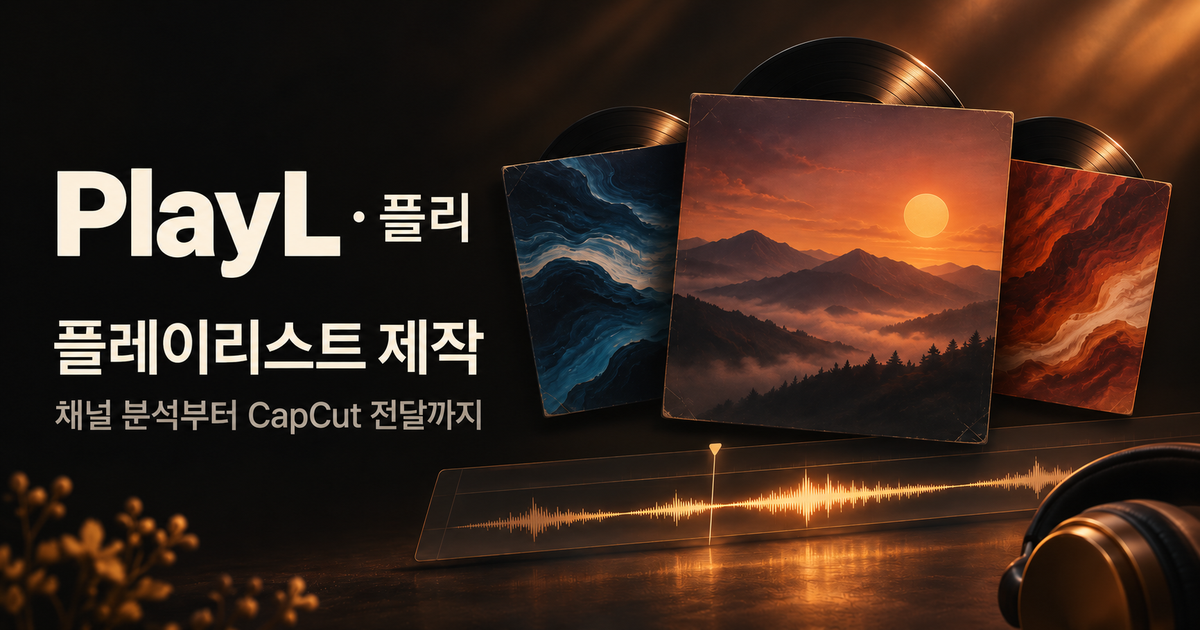
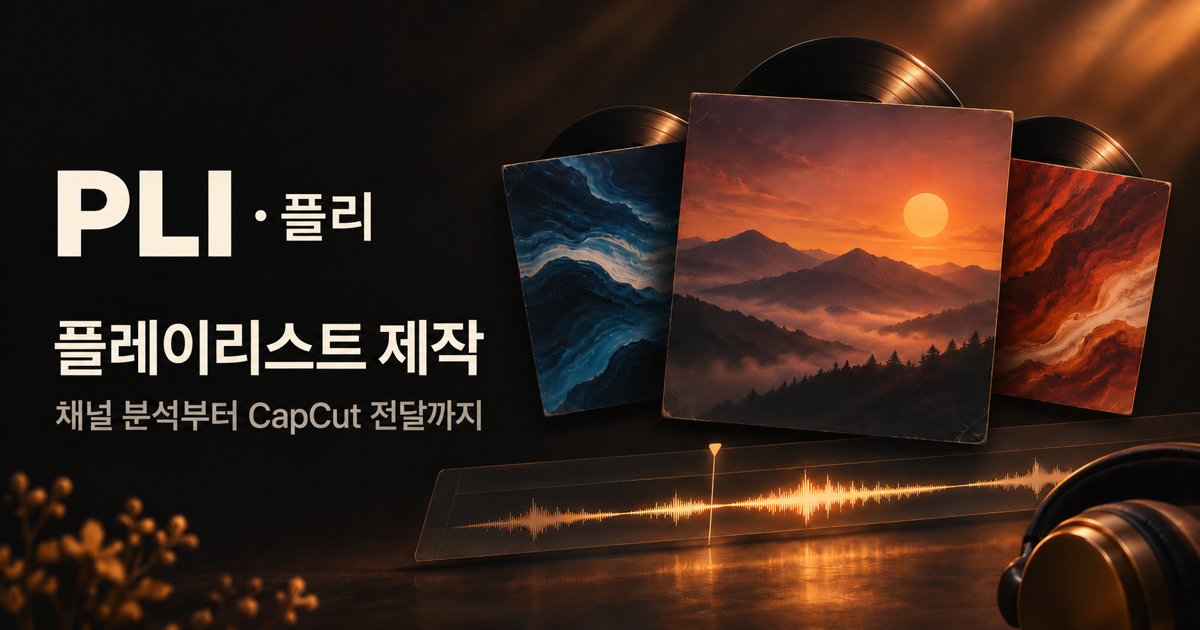
Add files via upload

diff --git a/public/2026-11-05-guide.html b/public/2026-11-05-guide.html
@@ -1,11 +1,11 @@
 <!doctype html>
-<html lang="ko"><head><meta charset="utf-8"><meta name="viewport" content="width=device-width,initial-scale=1"><meta name="theme-color" content="#000000"><title>PlayL · 플리 사용방법</title><link rel="stylesheet" href="2026-11-04-tokens.css"><link rel="stylesheet" href="2026-11-04-style.css"><link rel="stylesheet" href="2026-11-05-guide.css"><script defer src="/2026-11-05-web-analytics.js"></script></head><body class="guide-page">
+<html lang="ko"><head><meta charset="utf-8"><meta name="viewport" content="width=device-width,initial-scale=1"><meta name="theme-color" content="#000000"><title>PLI · 플리 사용방법</title><link rel="stylesheet" href="2026-11-04-tokens.css"><link rel="stylesheet" href="2026-11-04-style.css"><link rel="stylesheet" href="2026-11-05-guide.css"><script defer src="/2026-11-05-web-analytics.js"></script></head><body class="guide-page">
 <a class="skip" href="#guide-main">본문으로 이동</a>
-<header class="guide-header"><a class="brand" href="/">▶ PlayL · 플리</a><span class="muted">사용방법 · v0.6.1</span><a class="secondary" href="/">작업 화면 열기</a></header>
+<header class="guide-header"><a class="brand" href="/">▶ PLI · 플리</a><span class="muted">사용방법 · v0.8.2</span><a class="secondary" href="/">작업 화면 열기</a></header>
 <div class="guide-layout"><nav class="guide-toc" aria-label="사용방법 목차"><strong>목차</strong><a href="#start">처음 시작하기</a><a href="#youtube">YouTube API 키 설정</a><a href="#analysis">01 참고 채널 분석</a><a href="#plan">02 곡 기획·가사</a><a href="#music">03 음악 생성·선택</a><a href="#audio">04 무음·음량 조정</a><a href="#images">05 이미지 준비</a><a href="#capcut">06 CapCut 전달</a><a href="#save">저장·불러오기</a><a href="#status">현재 지원 범위</a><a href="#troubleshooting">문제 해결</a></nav>
-<main id="guide-main" tabindex="-1"><div class="guide-title"><p class="muted">작업 옆에 두고 따라 하는 안내</p><h1>PlayL · 플리 사용방법</h1><p>참고 채널에서 제작 방향을 찾고, 원곡과 이미지를 준비해 CapCut에서 편집합니다.</p><p class="muted">이 안내는 별도 탭에서 열립니다. 원래 작업 탭으로 돌아가 계속 진행하세요.</p></div>
-<section id="start" class="panel"><h2>처음 시작하기 · 사이트에서 준비</h2><ol><li>작업 화면 왼쪽 <strong>시작·설치 확인</strong>을 엽니다.</li><li>로컬 브릿지가 없으면 화면의 <strong>PlayL · 플리 브릿지 다운로드</strong>를 누릅니다. Node.js가 없으면 공식 다운로드로 설치합니다.</li><li>ZIP 전체를 풀고 포함된 <strong>2026-11-05-PlayL-start-v0.6.1.cmd</strong>를 실행합니다. 현재는 사이트에서 설치를 안내하는 실행 묶음이며 별도 자동 설치 마법사는 아닙니다.</li><li>사이트에서 브릿지 연결을 다시 확인합니다. 배포 사이트를 쓸 때는 로컬 연결과 설정에서 해당 HTTPS origin을 등록하고 연결 코드를 입력합니다.</li><li>확인된 설치 상태에서 없는 도구만 공식 다운로드 안내로 준비하고 <strong>설치 상태 다시 확인</strong>을 누릅니다. 설치 확인과 실행·로그인·모델 준비 완료는 별개입니다.</li></ol><p>로컬 브릿지가 GPU·VRAM·RAM과 알려진 설치 위치/PATH를 확인합니다. 임의 위치의 설치는 찾지 못할 수 있습니다. YuE2는 앱 버전과 모델 구성(BF16/Q8 등)을 구분해 PC 사양에 맞는 후보를 안내하며, Studio에서 모델·드라이버 준비 상태를 최종 확인합니다.</p><p class="muted"><a href="https://github.com/timoncool/YuE2-Studio" target="_blank" rel="noopener noreferrer">YuE2 개발자 요구 사양·모델 안내 ↗</a>를 참고한 후보 안내이며 실행 보증은 아닙니다. 사양 확인을 못 하면 추천을 보류합니다.</p><div class="inline-note">이미지 AI 생성과 새 CapCut 초안의 자동 등록은 아직 제공하지 않습니다. 현재 지원 범위를 확인하세요.</div></section>
-<section id="youtube" class="panel"><h2>YouTube API 키 준비·저장</h2><h3>1. Google Cloud에서 준비</h3><ol><li><a href="https://console.cloud.google.com/" target="_blank" rel="noopener noreferrer">Google Cloud Console ↗</a>에서 프로젝트를 만들거나 선택합니다. 이 프로젝트는 Google API 관리용이며 PlayL 작업과는 별개입니다.</li><li>‘API 및 서비스 → 라이브러리’에서 <strong>YouTube Data API v3</strong>를 찾아 사용 설정합니다.</li><li>‘API 및 서비스 → 사용자 인증 정보’에서 <strong>사용자 인증 정보 만들기 → API 키</strong>로 일반 API 키를 만듭니다. 공개 채널 수집에는 서비스 계정 JSON이나 OAuth 클라이언트 파일을 넣지 않습니다.</li><li>키의 API 제한 대상을 <strong>YouTube Data API v3</strong>로 지정합니다. API를 활성화한 프로젝트와 키를 만든 프로젝트가 같은지 확인하세요.</li></ol><h3>2. PlayL에서 저장</h3><ol><li>작업 화면 왼쪽의 <strong>연결과 설정</strong>을 엽니다.</li><li>‘YouTube 데이터 연결 → YouTube API 키’에 키 문자열을 붙여 넣고 <strong>키 저장</strong>을 누릅니다.</li><li>저장 후 입력창이 접히고 <strong>키 등록됨 · 연결 확인 전</strong>으로 바뀝니다. <strong>실제 연결 확인</strong>을 누르거나 채널 수집에 성공하면 <strong>연결 확인됨</strong>이 표시됩니다. 키를 바꿀 때만 ‘키 변경’을 사용합니다.</li></ol><p class="inline-note">API 키는 채팅·공유 화면·GitHub에 올리지 말고 앱의 키 입력란에 직접 저장하세요. PC의 비공개 연결 설정에 저장되며 저장 후 화면에 키를 다시 표시하지 않습니다.</p><details><summary>키에 웹사이트/IP 제한을 설정할 때</summary><p>현재 YouTube 요청은 PC의 로컬 브릿지가 Google로 보냅니다. 브라우저용 HTTP 리퍼러 제한은 이 방식과 맞지 않아 요청이 거절될 수 있습니다. IP 제한은 Google로 요청하는 PC의 공인 출구 IP에 맞춰야 하며, 인터넷 환경이 바뀌면 다시 확인해야 합니다. <code>127.0.0.1</code>은 Google에서 보는 공인 IP가 아닙니다.</p><p><a href="https://docs.cloud.google.com/api-keys/docs/add-restrictions-api-keys" target="_blank" rel="noopener noreferrer">Google 공식 키 제한 안내 ↗</a></p></details><p class="muted">Google 콘솔의 메뉴 이름은 언어·화면 개편에 따라 달라질 수 있습니다. <a href="https://developers.google.com/youtube/v3/getting-started" target="_blank" rel="noopener noreferrer">YouTube 시작 안내 ↗</a> · <a href="https://docs.cloud.google.com/docs/authentication/api-keys" target="_blank" rel="noopener noreferrer">API 키 만들기 안내 ↗</a></p></section>
+<main id="guide-main" tabindex="-1"><div class="guide-title"><p class="muted">작업 옆에 두고 따라 하는 안내</p><h1>PLI · 플리 사용방법</h1><p>참고 채널에서 제작 방향을 찾고, 원곡과 이미지를 준비해 CapCut에서 편집합니다.</p><p class="muted">이 안내는 별도 탭에서 열립니다. 원래 작업 탭으로 돌아가 계속 진행하세요.</p></div>
+<section id="start" class="panel"><h2>처음 시작하기 · 사이트에서 준비</h2><ol><li>작업 화면 왼쪽 <strong>시작·설치 확인</strong>을 엽니다.</li><li>로컬 브릿지가 없으면 화면의 <strong>PLI · 플리 브릿지 다운로드</strong>를 누릅니다. Node.js가 없으면 공식 다운로드로 설치합니다.</li><li>ZIP 전체를 풀고 포함된 <strong>2026-11-05-PlayL-start-v0.8.2.cmd</strong>를 실행합니다. 현재는 사이트에서 설치를 안내하는 실행 묶음이며 별도 자동 설치 마법사는 아닙니다.</li><li>사이트에서 브릿지 연결을 다시 확인합니다. 배포 사이트를 쓸 때는 로컬 연결과 설정에서 해당 HTTPS origin을 등록하고 연결 코드를 입력합니다.</li><li>확인된 설치 상태에서 없는 도구만 공식 다운로드 안내로 준비하고 <strong>설치 상태 다시 확인</strong>을 누릅니다. 설치 확인과 실행·로그인·모델 준비 완료는 별개입니다.</li></ol><p>로컬 브릿지가 GPU·VRAM·RAM과 알려진 설치 위치/PATH를 확인합니다. 임의 위치의 설치는 찾지 못할 수 있습니다. YuE2는 앱 버전과 모델 구성(BF16/Q8 등)을 구분해 PC 사양에 맞는 후보를 안내하며, Studio에서 모델·드라이버 준비 상태를 최종 확인합니다.</p><p class="muted"><a href="https://github.com/timoncool/YuE2-Studio" target="_blank" rel="noopener noreferrer">YuE2 개발자 요구 사양·모델 안내 ↗</a>를 참고한 후보 안내이며 실행 보증은 아닙니다. 사양 확인을 못 하면 추천을 보류합니다.</p><div class="inline-note">이미지 AI 생성과 새 CapCut 초안의 자동 등록은 아직 제공하지 않습니다. 현재 지원 범위를 확인하세요.</div></section>
+<section id="youtube" class="panel"><h2>YouTube API 키 준비·저장</h2><h3>1. Google Cloud에서 준비</h3><ol><li><a href="https://console.cloud.google.com/" target="_blank" rel="noopener noreferrer">Google Cloud Console ↗</a>에서 프로젝트를 만들거나 선택합니다. 이 프로젝트는 Google API 관리용이며 PLI 작업과는 별개입니다.</li><li>‘API 및 서비스 → 라이브러리’에서 <strong>YouTube Data API v3</strong>를 찾아 사용 설정합니다.</li><li>‘API 및 서비스 → 사용자 인증 정보’에서 <strong>사용자 인증 정보 만들기 → API 키</strong>로 일반 API 키를 만듭니다. 공개 채널 수집에는 서비스 계정 JSON이나 OAuth 클라이언트 파일을 넣지 않습니다.</li><li>키의 API 제한 대상을 <strong>YouTube Data API v3</strong>로 지정합니다. API를 활성화한 프로젝트와 키를 만든 프로젝트가 같은지 확인하세요.</li></ol><h3>2. PLI에서 저장</h3><ol><li>작업 화면 왼쪽의 <strong>연결과 설정</strong>을 엽니다.</li><li>‘YouTube 데이터 연결 → YouTube API 키’에 키 문자열을 붙여 넣고 <strong>키 저장</strong>을 누릅니다.</li><li>저장 후 입력창이 접히고 <strong>키 등록됨 · 연결 확인 전</strong>으로 바뀝니다. <strong>실제 연결 확인</strong>을 누르거나 채널 수집에 성공하면 <strong>연결 확인됨</strong>이 표시됩니다. 키를 바꿀 때만 ‘키 변경’을 사용합니다.</li></ol><p class="inline-note">API 키는 채팅·공유 화면·GitHub에 올리지 말고 앱의 키 입력란에 직접 저장하세요. PC의 비공개 연결 설정에 저장되며 저장 후 화면에 키를 다시 표시하지 않습니다.</p><details><summary>키에 웹사이트/IP 제한을 설정할 때</summary><p>현재 YouTube 요청은 PC의 로컬 브릿지가 Google로 보냅니다. 브라우저용 HTTP 리퍼러 제한은 이 방식과 맞지 않아 요청이 거절될 수 있습니다. IP 제한은 Google로 요청하는 PC의 공인 출구 IP에 맞춰야 하며, 인터넷 환경이 바뀌면 다시 확인해야 합니다. <code>127.0.0.1</code>은 Google에서 보는 공인 IP가 아닙니다.</p><p><a href="https://docs.cloud.google.com/api-keys/docs/add-restrictions-api-keys" target="_blank" rel="noopener noreferrer">Google 공식 키 제한 안내 ↗</a></p></details><p class="muted">Google 콘솔의 메뉴 이름은 언어·화면 개편에 따라 달라질 수 있습니다. <a href="https://developers.google.com/youtube/v3/getting-started" target="_blank" rel="noopener noreferrer">YouTube 시작 안내 ↗</a> · <a href="https://docs.cloud.google.com/docs/authentication/api-keys" target="_blank" rel="noopener noreferrer">API 키 만들기 안내 ↗</a></p></section>
 <section id="analysis" class="panel"><h2>01 참고 채널 분석</h2><ol><li>채널 URL 또는 <code>@핸들</code>을 입력합니다. 예: <code>https://www.youtube.com/@채널핸들</code>. 개별 영상·플레이리스트 주소 대신 채널 주소를 사용하세요.</li><li>최근 10·20·50개 중 수집 범위를 선택하고 입력란 옆 <strong>데이터 수집</strong>을 누릅니다. 채널을 모르면 키워드 검색 후 ‘이 채널 수집’을 선택합니다.</li><li>표본 수·게시 기간·길이별 비교·긴 영상 조회수 상위·제목 키워드를 확인합니다. 조회수 상위는 최근 수집 표본 안의 순위입니다.</li><li><strong>AI로 제작 방향 분석</strong>을 실행합니다. 로그인된 GPT/Codex 또는 Claude CLI가 필요합니다. 같은 채널 화면에서 진행 상태·오류·분석 결과를 확인합니다. 작업 기록으로 자동 이동하지 않습니다.</li><li>근거 영상과 제작 방향을 검토한 뒤 <strong>이 분석을 곡 기획에 반영</strong>을 눌러 다음 단계로 연결합니다.</li></ol><p class="inline-note">AI 해석은 제목·설명 등 메타데이터 기반 추정입니다. 실제 음악을 듣거나 썸네일 픽셀을 분석한 결과가 아닙니다. BPM·최적 업로드 시간·시청 지속률·수익을 확인했다고 해석하지 마세요. 길이 3분 이하가 곧 Shorts라는 뜻도 아닙니다.</p><p class="muted">참고 채널 없이 직접 기획할 수도 있습니다. 실제 채널 재수집·Codex 해석을 확인했습니다. 예전 자료는 다시 분석할 때 설명과 트랙 목록을 갱신합니다. 제작 제안의 곡 수·길이·반복·총길이는 계산 검사하며, 반복은 설명의 단서와 실제 오디오 확인을 구분합니다. 모순된 이전 제안은 재분석 전 반영할 수 없습니다.</p></section>
 <section id="plan" class="panel"><h2>02 곡 기획·가사</h2><ol><li><strong>곡 기획 설정</strong>을 펼쳐 이름·장르·분위기·가사 언어·곡 수·직접 제작 방향을 입력합니다.</li><li>GPT/Codex와 Claude의 사용 순서를 정합니다. ‘순서 바꾸기’로 변경할 수 있습니다. 연결과 설정에서 모델명을 지정하며, 비우면 CLI 기본값을 사용합니다.</li><li><strong>기획·가사 생성</strong>을 누르고 같은 화면에서 생성된 초안의 제목·스타일·가사를 검토해 현재 작업에 추가합니다. 기존 곡은 유지됩니다. 직접 곡 추가로 작성할 수도 있습니다.</li><li>곡별 제목·가사·스타일을 수정합니다. 기존 곡은 자동 교체되지 않으므로 중복 곡이 생기지 않았는지 확인하세요.</li></ol><p class="muted">사용량 한도 오류가 확인될 때만 다음 제공자로 전환합니다. 로그인·네트워크 오류는 한도 소진으로 간주하지 않으며 잔여 크레딧을 추정하지 않습니다.</p></section>
 <section id="music" class="panel"><h2>03 음악 생성·선택</h2><ol><li>곡 기획 설정에서 <strong>YuE2 Studio 또는 Suno</strong>를 선택합니다.</li><li>연결과 설정에서 엔진 연결을 확인합니다. YuE2는 프로젝트용 실행 스크립트 <code>2026-11-04-YuE2-workspace-start-v0.1.0.ps1</code>로 시작하고 프로젝트 내부 저장 경로·모델 준비 상태를 확인합니다.</li><li>곡별 생성 버튼으로 요청하거나, 기존 음원 파일을 가져옵니다. 생성 결과는 작업 기록에서 검토한 뒤 <strong>이 음원 선택</strong>으로 연결합니다.</li><li>후보를 미리 듣고 사용할 음원을 확정합니다. Suno 실제 계정 연결·생성·다운로드는 아직 검증하지 않았습니다.</li></ol><details><summary>YuE2 연결이 끊기거나 생성 추적을 중단했다면</summary><p>‘기존 생성 결과 확인·복구’로 같은 작업 ID를 조회하세요. 새 생성 요청을 다시 보내는 기능이 아닙니다. ‘생성 추적 중단’은 YuE2의 실제 GPU 생성을 취소하지 않으므로 Studio에서 상태를 확인한 뒤 판단하세요.</p></details></section>
@@ -15,4 +15,4 @@
 <section id="save" class="panel"><h2>작업 저장·불러오기</h2><p>상단 <strong>저장</strong>을 눌러 작업을 남깁니다. ‘저장하지 않은 변경 사항’이 표시되면 현재 편집 내용을 다시 저장하세요. 다음에 왼쪽 ‘저장·불러오기’ 목록에서 불러올 수 있습니다.</p><p>‘새 작업’은 새로운 임시 작업을 시작합니다. 저장하지 않은 변경이 있다면 이동 전 확인합니다. 작업 화면 새로고침과 브릿지 종료 전 저장 상태를 확인하세요.</p></section>
 <section id="status" class="panel"><h2>현재 지원 범위</h2><div class="table-wrap"><table><thead><tr><th>기능</th><th>현재 상태</th></tr></thead><tbody><tr><td>채널 수집·AI 해석</td><td>구현됨 · 실제 채널 통합 검증은 API 키 준비 후</td></tr><tr><td>GPT/Codex 기획·가사</td><td>실제 생성 확인</td></tr><tr><td>Claude·실제 한도 전환</td><td>사용자 로그인·실제 실행 검증 필요</td></tr><tr><td>YuE2 음악 생성</td><td>실제 약 30초 생성 확인</td></tr><tr><td>Suno</td><td>실제 인증·생성·다운로드 미검증</td></tr><tr><td>이미지</td><td>파일 첨부·커버 선택 가능 / AI 생성 미구현</td></tr><tr><td>CapCut</td><td>초안 생성 및 9.6에서 30초 샘플 확인 / 자동 등록 미구현</td></tr><tr><td>GitHub·Vercel</td><td>설정 준비 / 실제 게시·배포 미실행</td></tr></tbody></table></div></section>
 <section id="troubleshooting" class="panel"><h2>문제 해결</h2><details><summary>키를 등록했는데 수집에 실패해요</summary><p>키를 만든 Google 프로젝트에서 YouTube Data API v3가 활성화됐는지, API·클라이언트 제한이 맞는지 확인하세요. 저장 성공은 API 호출 성공이 아닙니다. 할당량 오류는 Google 콘솔에서 사용량을 확인하고, 오류 메시지는 키 문자열을 제외해 공유하세요.</p></details><details><summary>로컬 브릿지 연결이 안 돼요</summary><p>PC 실행 스크립트를 켜고 터미널이 열려 있는지 확인하세요. 로컬 주소는 http://127.0.0.1:43119 입니다. 배포된 웹앱과 로컬 브릿지 연결은 아직 실제 배포 환경에서 검증하지 않았습니다.</p></details><details><summary>채널 주소 형식 오류가 나요</summary><p>/@핸들, /channel/채널ID, /user/사용자명 형식을 사용하세요. /c/별칭, 개별 영상, 플레이리스트 URL 대신 실제 채널의 @핸들을 복사하세요.</p></details><details><summary>AI나 음악 생성이 실패했어요</summary><p>작업 기록의 오류와 제공자 로그인·엔진 연결 상태를 확인하세요. 실제 생성 여부가 불명확하면 같은 요청을 즉시 반복하지 말고 기존 작업 ID를 먼저 조회하세요.</p></details><details><summary>CapCut에서 파일을 찾을 수 없다고 해요</summary><p>원래 초안 결과의 Resources 폴더가 남아 있는지 확인하세요. ZIP을 다른 위치에 풀어도 내부의 절대 미디어 경로가 자동으로 바뀌지는 않습니다. 원본 결과 폴더를 보존하고 CapCut의 미디어 재연결을 확인하세요.</p></details></section>
-<footer><span>PlayL · 플리 v0.8.2 · 안내 갱신 2026-11-05</span><a href="#guide-main">맨 위로 ↑</a></footer><section><h2>곡 만들기부터 CapCut까지</h2><ol><li>음악 생성·선택에서 YuE2 Studio를 선택하고 실행 및 연결을 누릅니다.</li><li>곡 카드에서 생성하거나 음원 없는 곡을 일괄 생성합니다. 단일 후보는 원래 곡에 연결됩니다.</li><li>포함할 곡으로 계속을 누른 뒤 무음 분석과 조정을 확인합니다.</li><li>이미지 단계에서 커버를 변경하거나 가사로 새 후보를 만듭니다. 새 이미지는 로그인된 Codex CLI로 생성합니다.</li><li>CapCut 초안이 완료되면 CapCut에서 열기를 누릅니다. 앱의 프로젝트 목록에서 새 초안을 선택합니다.</li></ol></section><section><h2>배포된 웹앱에서 PC 브릿지 연결</h2><p>브릿지 ZIP을 작업 폴더에 풀고 Windows PowerShell 7에서 PlayL 설치 스크립트를 실행합니다. 배포 담당자는 공식 HTTPS 주소를 설치 설정에 지정합니다. 웹앱에서 브릿지 연결을 눌러 Windows의 앱 실행 안내와 PlayL 승인 창을 확인하세요. 음원과 이미지는 브라우저에서 같은 PC의 브릿지로 전달합니다.</p><h3>YuE2 처음 사용하기</h3><p>시작·설치 확인에서 GPU 메모리와 RAM, YuE2 설치 상태를 확인합니다. 이미 설치돼 있으면 프로젝트용 복사본을 준비하고, 설치가 필요하면 공식 다운로드로 이동합니다. 모델이 준비되지 않았다면 Studio 모델 설정에서 권장 구성을 다운로드한 뒤 PlayL에서 다시 연결하세요.</p></section></main></div></body></html>
+<footer><span>PLI · 플리 v0.8.2 · 안내 갱신 2026-11-05</span><a href="#guide-main">맨 위로 ↑</a></footer><section><h2>곡 만들기부터 CapCut까지</h2><ol><li>음악 생성·선택에서 YuE2 Studio를 선택하고 실행 및 연결을 누릅니다.</li><li>곡 카드에서 생성하거나 음원 없는 곡을 일괄 생성합니다. 단일 후보는 원래 곡에 연결됩니다.</li><li>포함할 곡으로 계속을 누른 뒤 무음 분석과 조정을 확인합니다.</li><li>이미지 단계에서 커버를 변경하거나 가사로 새 후보를 만듭니다. 새 이미지는 로그인된 Codex CLI로 생성합니다.</li><li>CapCut 초안이 완료되면 CapCut에서 열기를 누릅니다. 앱의 프로젝트 목록에서 새 초안을 선택합니다.</li></ol></section><section><h2>배포된 웹앱에서 PC 브릿지 연결</h2><p>브릿지 ZIP을 작업 폴더에 풀고 Windows PowerShell 7에서 PLI 설치 스크립트를 실행합니다. 배포 담당자는 공식 HTTPS 주소를 설치 설정에 지정합니다. 웹앱에서 브릿지 연결을 눌러 Windows의 앱 실행 안내와 PLI 승인 창을 확인하세요. 음원과 이미지는 브라우저에서 같은 PC의 브릿지로 전달합니다.</p><h3>YuE2 처음 사용하기</h3><p>시작·설치 확인에서 GPU 메모리와 RAM, YuE2 설치 상태를 확인합니다. 이미 설치돼 있으면 프로젝트용 복사본을 준비하고, 설치가 필요하면 공식 다운로드로 이동합니다. 모델이 준비되지 않았다면 Studio 모델 설정에서 권장 구성을 다운로드한 뒤 PLI에서 다시 연결하세요.</p></section></main></div></body></html>

diff --git a/public/index.html b/public/index.html
@@ -1,23 +1,23 @@
 <!doctype html>
-<html lang="ko"><head><meta charset="utf-8"><meta name="viewport" content="width=device-width,initial-scale=1"><meta name="theme-color" content="#000000"><title>PlayL · 플리 — 플레이리스트 제작</title>
+<html lang="ko"><head><meta charset="utf-8"><meta name="viewport" content="width=device-width,initial-scale=1"><meta name="theme-color" content="#000000"><title>PLI · 플리 — 플레이리스트 제작</title>
 <meta name="description" content="참고 채널 분석부터 곡 기획, 음악·이미지 생성과 CapCut 전달까지.">
 <meta property="og:type" content="website">
 <meta property="og:locale" content="ko_KR">
-<meta property="og:site_name" content="PlayL · 플리">
-<meta property="og:title" content="PlayL · 플리 — 플레이리스트 제작">
+<meta property="og:site_name" content="PLI · 플리">
+<meta property="og:title" content="PLI · 플리 — 플레이리스트 제작">
 <meta property="og:description" content="참고 채널 분석부터 곡 기획, 음악·이미지 생성과 CapCut 전달까지.">
 <meta property="og:url" content="https://pli-teal.vercel.app/">
 <meta property="og:image" content="https://pli-teal.vercel.app/og-image.png">
 <meta property="og:image:type" content="image/png">
 <meta property="og:image:width" content="1200">
 <meta property="og:image:height" content="630">
-<meta property="og:image:alt" content="PlayL · 플리와 앨범 커버, 음악 파형">
+<meta property="og:image:alt" content="PLI · 플리와 앨범 커버, 음악 파형">
 <meta name="twitter:card" content="summary_large_image">
 <meta name="twitter:image" content="https://pli-teal.vercel.app/og-image.png">
 <script defer src="/2026-11-05-web-analytics.js"></script>
 <link rel="stylesheet" href="2026-11-04-tokens.css"><link rel="stylesheet" href="2026-11-04-style.css"><link rel="stylesheet" href="2026-11-05-guide.css"><link rel="stylesheet" href="2026-11-05-experience.css"><script type="module" src="2026-11-04-app.js"></script></head><body>
 <a class="skip" href="#main">본문으로 이동</a><div class="shell">
-<aside class="sidebar"><a class="brand" href="#"><span class="brand-mark">▶</span>PlayL · 플리</a><div class="side-caption">플레이리스트 제작</div><button id="new-project" class="new-project">＋ 새 작업</button><label for="project-select" class="side-label">저장·불러오기</label><select id="project-select"><option value="">저장한 작업 불러오기</option></select>
+<aside class="sidebar"><a class="brand" href="#"><span class="brand-mark">▶</span>PLI · 플리</a><div class="side-caption">플레이리스트 제작</div><button id="new-project" class="new-project">＋ 새 작업</button><label for="project-select" class="side-label">저장·불러오기</label><select id="project-select"><option value="">저장한 작업 불러오기</option></select>
 <nav aria-label="제작 단계">
 <button data-tab="analysis" class="nav active"><span>01</span>참고 채널 분석<small data-step-state="analysis">대기</small></button>
 <button data-tab="plan" class="nav"><span>02</span>곡 기획·가사<small data-step-state="plan">대기</small></button>
@@ -25,7 +25,7 @@
 <button data-tab="audio" class="nav"><span>04</span>무음·음량 조정<small data-step-state="audio">대기</small></button>
 <button data-tab="images" class="nav"><span>05</span>이미지<small data-step-state="images">대기</small></button>
 <button data-tab="export" class="nav"><span>06</span>CapCut 전달<small data-step-state="export">대기</small></button>
-</nav><div class="side-bottom"><button data-tab="setup" class="nav">시작·설치 확인</button><button data-tab="jobs" class="nav">작업 기록 <i id="job-count">0</i></button><button data-tab="connections" class="nav">연결과 설정</button><a class="nav" href="2026-11-05-guide.html" target="_blank" rel="noopener noreferrer">사용방법 ↗</a><div class="side-status"><span class="dot" id="bridge-dot"></span><span id="bridge-label">브릿지 확인 중</span></div><small>PlayL · 플리 v0.8.2</small></div></aside>
+</nav><div class="side-bottom"><button data-tab="setup" class="nav">시작·설치 확인</button><button data-tab="jobs" class="nav">작업 기록 <i id="job-count">0</i></button><button data-tab="connections" class="nav">연결과 설정</button><a class="nav" href="2026-11-05-guide.html" target="_blank" rel="noopener noreferrer">사용방법 ↗</a><div class="side-status"><span class="dot" id="bridge-dot"></span><span id="bridge-label">브릿지 확인 중</span></div><small>PLI · 플리 v0.8.2</small></div></aside>
 <main id="main" tabindex="-1"><header class="topbar"><div class="header-titles"><p id="top-title">프로젝트를 선택하세요</p><h1 id="step-title">참고 채널 분석</h1></div><div class="top-actions"><span id="save-state" role="status">저장할 프로젝트 없음</span><button id="save-project" class="secondary" disabled>저장</button></div></header>
 <div id="notice" role="status" aria-live="polite" hidden></div><div id="workspace-summary" class="workspace-summary" aria-label="제작 준비 현황"></div>
 
@@ -38,7 +38,7 @@
 <section id="view-audio" class="view" hidden><div class="section-head"><div><h2>무음 경계와 음량</h2><p class="muted">전주와 잔향을 확인하고 곡 사이의 음량을 맞춥니다.</p></div></div><div class="panel"><label class="check"><input id="normalize" type="checkbox" checked>출력 시 음량 통일과 시작·끝 페이드 적용</label><p class="muted">무음 분석은 추천 구간을 계산합니다. 적용 후 실제 소리를 확인하세요. 음량 통일은 전문 마스터링을 대신하지 않습니다.</p></div><div id="audio-tracks" class="stack"></div><div class="step-navigation"><button class="primary" id="audio-next">조정 완료 · 다음: 이미지 →</button></div></section>
 <section id="view-images" class="view" hidden><div class="section-head"><div><h2>곡별 배경 이미지</h2><p class="muted">확정한 곡에 사용할 이미지를 준비하세요.</p></div></div><div class="inline-note" id="image-provider-note">YuE2 커버와 Codex CLI 이미지 생성을 지원합니다.</div><div class="button-row"><button class="secondary" id="check-image-cli">Codex CLI 연결 확인</button></div><div id="image-tracks" class="stack"></div><div class="step-navigation"><button class="primary" id="images-next" data-tab="export">다음: CapCut 전달 →</button></div></section>
 <section id="view-export" class="view" hidden><div class="panel"><div class="section-head"><h2>CapCut으로 전달할 순서</h2><span class="badge">이미지·음악 분리 타임라인</span></div><div id="export-tracks"></div><p class="muted">포함할 곡마다 음원·이미지를 지정하세요. 트림·음량 통일·페이드는 준비된 음원에 반영하고, 이미지는 음악 길이에 맞춰 배치합니다. 최종 편집과 영상 내보내기는 CapCut에서 합니다.</p><button id="make-capcut" class="primary">CapCut 프로젝트 만들기</button><p class="muted">현재 작업 폴더에 초안과 미디어·ZIP을 만듭니다. 기본 형식은 CapCut 9.6에서 샘플을 열어 확인했습니다. 완료 후 CapCut에서 열기를 눌러 프로젝트 목록에 추가하세요.</p></div><div id="capcut-progress" aria-live="polite"></div><div id="capcut-result" class="panel" hidden></div><details class="panel"><summary>보조 기능 · MP4 직접 만들기</summary><p class="muted">CapCut에서 편집할 필요가 없을 때만 사용하세요.</p><button id="render-video" class="secondary">MP4 직접 만들기</button><div id="mp4-progress" aria-live="polite"></div><div id="export-result" class="panel" hidden></div></details></section>
-<section id="view-setup" class="view" hidden><div class="section-head"><div><h2>필요한 도구를 순서대로 준비하세요</h2><p class="muted">사이트에서 시작해 설치 확인 → 필요한 도구 다운로드 → 실행·로그인 → 다시 확인으로 진행합니다.</p></div><button id="refresh-setup" class="secondary">설치·모델 상태 다시 확인</button></div><div class="panel"><h3>1. 로컬 브릿지 준비</h3><p id="setup-bridge-state" role="status"></p><p>브릿지가 PC의 도구·사양을 확인하고 작업 파일을 처리합니다. 사이트만으로 설치 여부를 확인할 수는 없습니다.</p><div class="button-row"><a class="secondary" id="download-bridge" href="2026-11-05-PlayL-bridge-v0.8.2.zip" download>PlayL · 플리 브릿지 다운로드</a><a class="secondary" id="download-node" href="https://nodejs.org/en/download" target="_blank" rel="noopener noreferrer">Node.js 다운로드 ↗</a><button id="setup-connect" class="secondary">브릿지 연결 다시 확인</button></div><p class="muted">ZIP 전체를 풀고 포함된 PlayL 시작 파일을 실행하세요. 현재는 별도 설치 마법사 대신 실행 파일 묶음입니다. Node 22 이상이 필요합니다. 설치 후 이 화면에서 다시 확인합니다.</p></div><div class="panel"><h3>2. 도구·PC 사양 확인</h3><div id="setup-results" aria-live="polite"></div></div><div class="panel"><h3>3. 실행·로그인과 연결 확인</h3><p>설치 확인은 실행·로그인 완료를 뜻하지 않습니다. YuE2/CapCut을 실행하고, 사용할 AI CLI에 로그인한 뒤 연결 상태를 확인하세요.</p><button data-tab="connections" class="secondary">연결과 설정으로 이동</button></div></section><section id="view-jobs" class="view" hidden><div class="section-head"><h2>실행 결과와 복구</h2><p class="muted">완료 결과를 보존하며 외부 생성은 자동 재요청하지 않습니다.</p></div><label class="check"><input type="checkbox" id="show-hidden-jobs">숨긴 기록 보기</label><div id="job-list" class="stack"></div></section>
+<section id="view-setup" class="view" hidden><div class="section-head"><div><h2>필요한 도구를 순서대로 준비하세요</h2><p class="muted">사이트에서 시작해 설치 확인 → 필요한 도구 다운로드 → 실행·로그인 → 다시 확인으로 진행합니다.</p></div><button id="refresh-setup" class="secondary">설치·모델 상태 다시 확인</button></div><div class="panel"><h3>1. 로컬 브릿지 준비</h3><p id="setup-bridge-state" role="status"></p><p>브릿지가 PC의 도구·사양을 확인하고 작업 파일을 처리합니다. 사이트만으로 설치 여부를 확인할 수는 없습니다.</p><div class="button-row"><a class="secondary" id="download-bridge" href="2026-11-05-PlayL-bridge-v0.8.2.zip" download>PLI · 플리 브릿지 다운로드</a><a class="secondary" id="download-node" href="https://nodejs.org/en/download" target="_blank" rel="noopener noreferrer">Node.js 다운로드 ↗</a><button id="setup-connect" class="secondary">브릿지 연결 다시 확인</button></div><p class="muted">ZIP 전체를 풀고 포함된 PLI 시작 파일을 실행하세요. 현재는 별도 설치 마법사 대신 실행 파일 묶음입니다. Node 22 이상이 필요합니다. 설치 후 이 화면에서 다시 확인합니다.</p></div><div class="panel"><h3>2. 도구·PC 사양 확인</h3><div id="setup-results" aria-live="polite"></div></div><div class="panel"><h3>3. 실행·로그인과 연결 확인</h3><p>설치 확인은 실행·로그인 완료를 뜻하지 않습니다. YuE2/CapCut을 실행하고, 사용할 AI CLI에 로그인한 뒤 연결 상태를 확인하세요.</p><button data-tab="connections" class="secondary">연결과 설정으로 이동</button></div></section><section id="view-jobs" class="view" hidden><div class="section-head"><h2>실행 결과와 복구</h2><p class="muted">완료 결과를 보존하며 외부 생성은 자동 재요청하지 않습니다.</p></div><label class="check"><input type="checkbox" id="show-hidden-jobs">숨긴 기록 보기</label><div id="job-list" class="stack"></div></section>
 <section id="view-connections" class="view" hidden>
 <div class="panel"><div class="section-head"><h2>YouTube 데이터 연결</h2></div><p class="muted">공개 채널·영상 수집용 YouTube Data API 키입니다. 키는 PC의 비공개 설정에만 저장하며 화면에 다시 표시하지 않습니다.</p><div id="youtube-key-card" hidden><p id="youtube-key-description"></p><div class="button-row"><button id="check-youtube-key" class="secondary">실제 연결 확인</button><button id="edit-youtube-key" class="secondary">키 변경</button></div></div><div id="youtube-key-form"><label for="youtube-key">YouTube API 키</label><input id="youtube-key" type="password" autocomplete="off" spellcheck="false" placeholder="새 API 키 입력"><div class="button-row"><button id="save-youtube-key" class="secondary">키 저장</button><button id="cancel-youtube-key" class="secondary" hidden>변경 취소</button></div></div><p class="muted">API 키가 없다면 <a href="2026-11-05-guide.html#youtube" target="_blank" rel="noopener noreferrer">API 키 준비·저장 방법 ↗</a>을 확인한 뒤 01 참고 채널 분석에서 데이터를 수집하세요. 숫자와 AI 분석 결과는 수집 전에 표시하지 않습니다.</p></div>
       
@@ -48,4 +48,4 @@
       <div class="section-head"><h2>음악 엔진</h2><span class="muted">엔진별로 연결 확인이 필요합니다.</span></div>
       <div class="cards-two"><article class="panel"><span class="engine-icon">S</span><h2>Suno</h2><p>클라우드 음악 생성 · 계정 인증 필요</p><div class="button-row"><button id="suno-login" class="secondary">Suno 로그인</button><button data-check-engine="suno" class="primary">연결 확인</button></div><p id="suno-status" class="muted">현재 브릿지의 연결은 확인 전입니다.</p></article><article class="panel"><span class="engine-icon green">Y</span><h2>YuE2 Studio</h2><p>PC의 GPU로 생성 · Studio 실행 필요</p><button data-check-engine="yue2" class="primary">실행 및 연결</button><p id="yue2-status" class="muted">로컬 MCP: 127.0.0.1:8791</p></article></div>
       <div class="inline-note">CapCut 초안 생성은 06 단계에서 지원합니다. 9.6에서 샘플을 열어 확인했으며 자동 등록은 하지 않습니다. YouTube 수집은 위 API 키를 사용합니다. 가사 기반 이미지 생성은 Codex CLI 로그인을 사용합니다.</div>
-    </section><footer>PlayL · 플리 v0.8.2 <span>현재 프로젝트 안에 작업·결과 저장</span></footer></main></div></body></html>
+    </section><footer>PLI · 플리 v0.8.2 <span>현재 프로젝트 안에 작업·결과 저장</span></footer></main></div></body></html>
